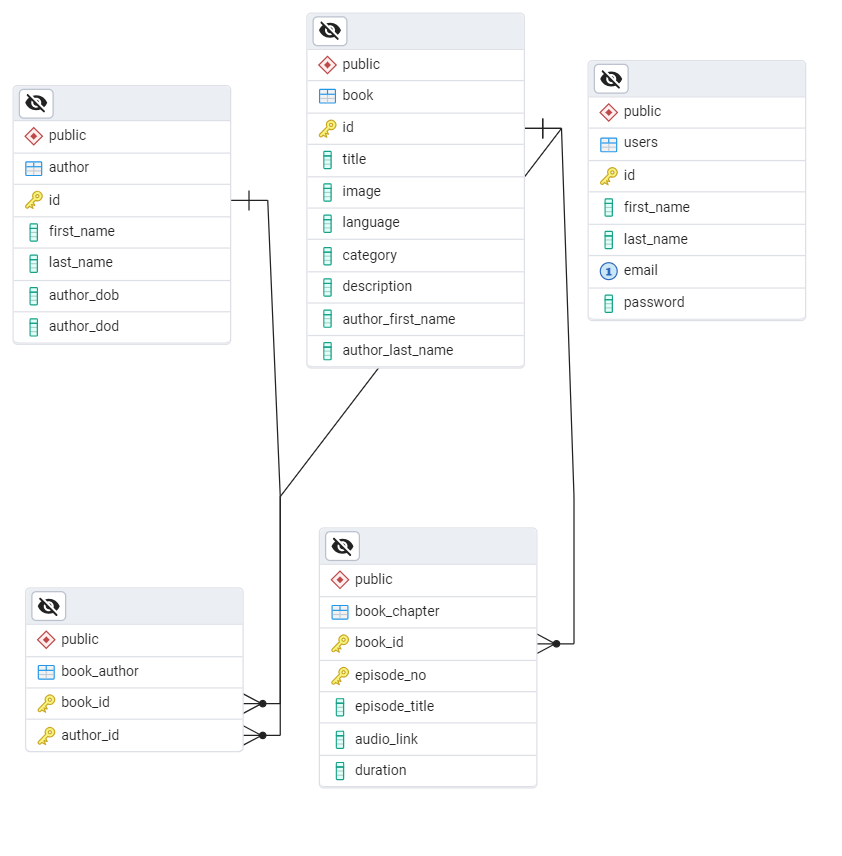
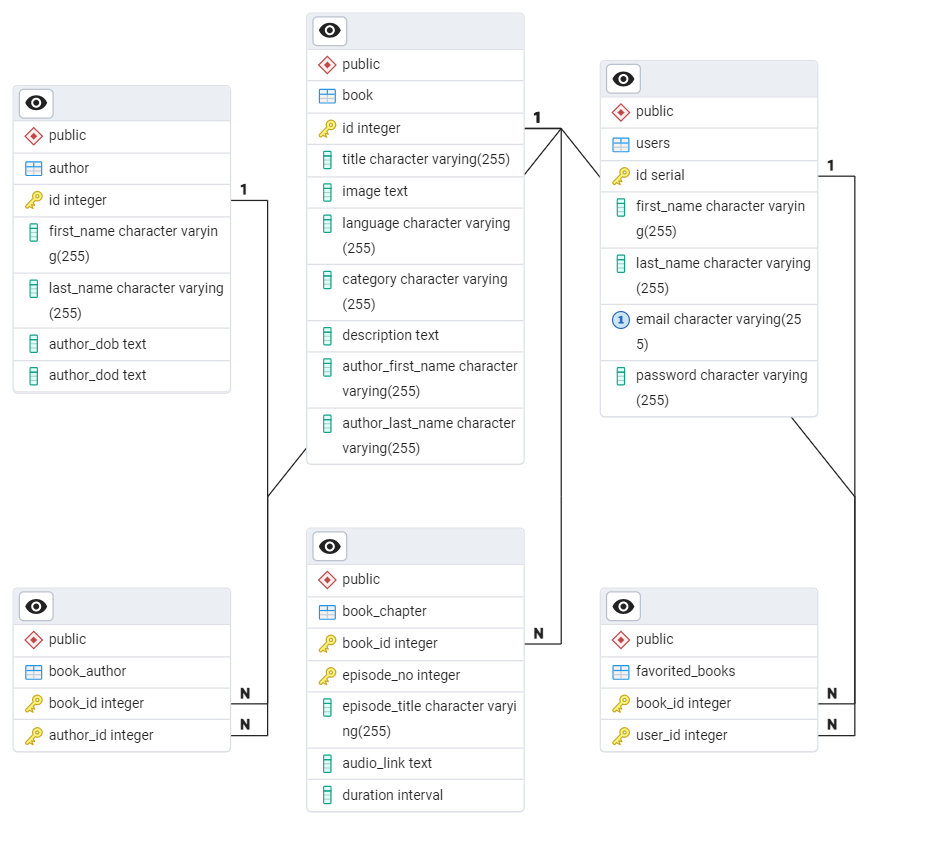
added favorited books table, modified the erd

diff --git a/web-app/db_table_creation/favorited_books.js b/web-app/db_table_creation/favorited_books.js
@@ -1,0 +1,14 @@
+ const connection = require('./init_connection');
+ const client = connection;
+ const createtableFavoritedBooks= `create table favorited_books(
+    book_id int,
+    user_id int,
+    foreign key (book_id) references book(id) on delete cascade,
+    foreign key (user_id) references users(id) on delete cascade,
+    primary key(book_id, user_id)
+ )`
+ 
+ client.query(createtableFavoritedBooks)
+     .then(() => console.log("Table created successfully"))
+     .catch(err => console.error("Error creating table", err.stack))
+     .finally(() => client.end()); 
